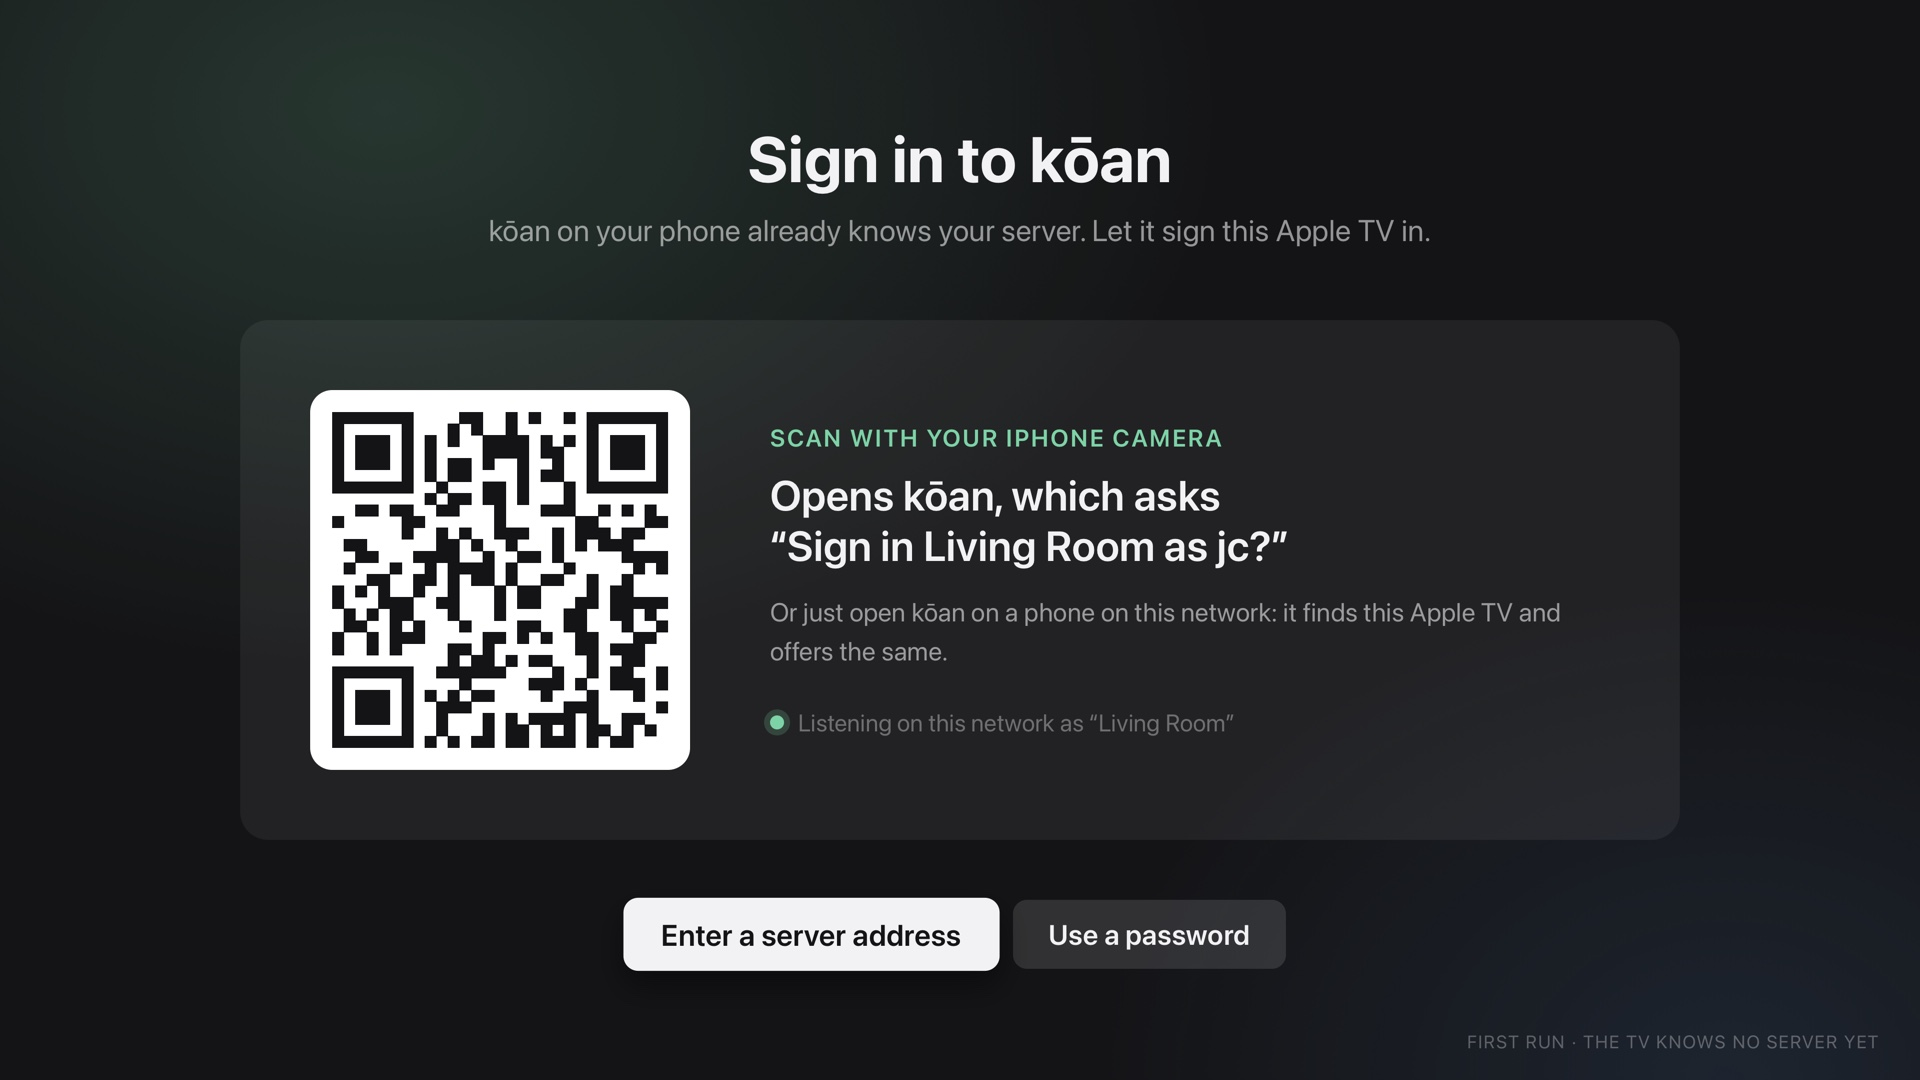
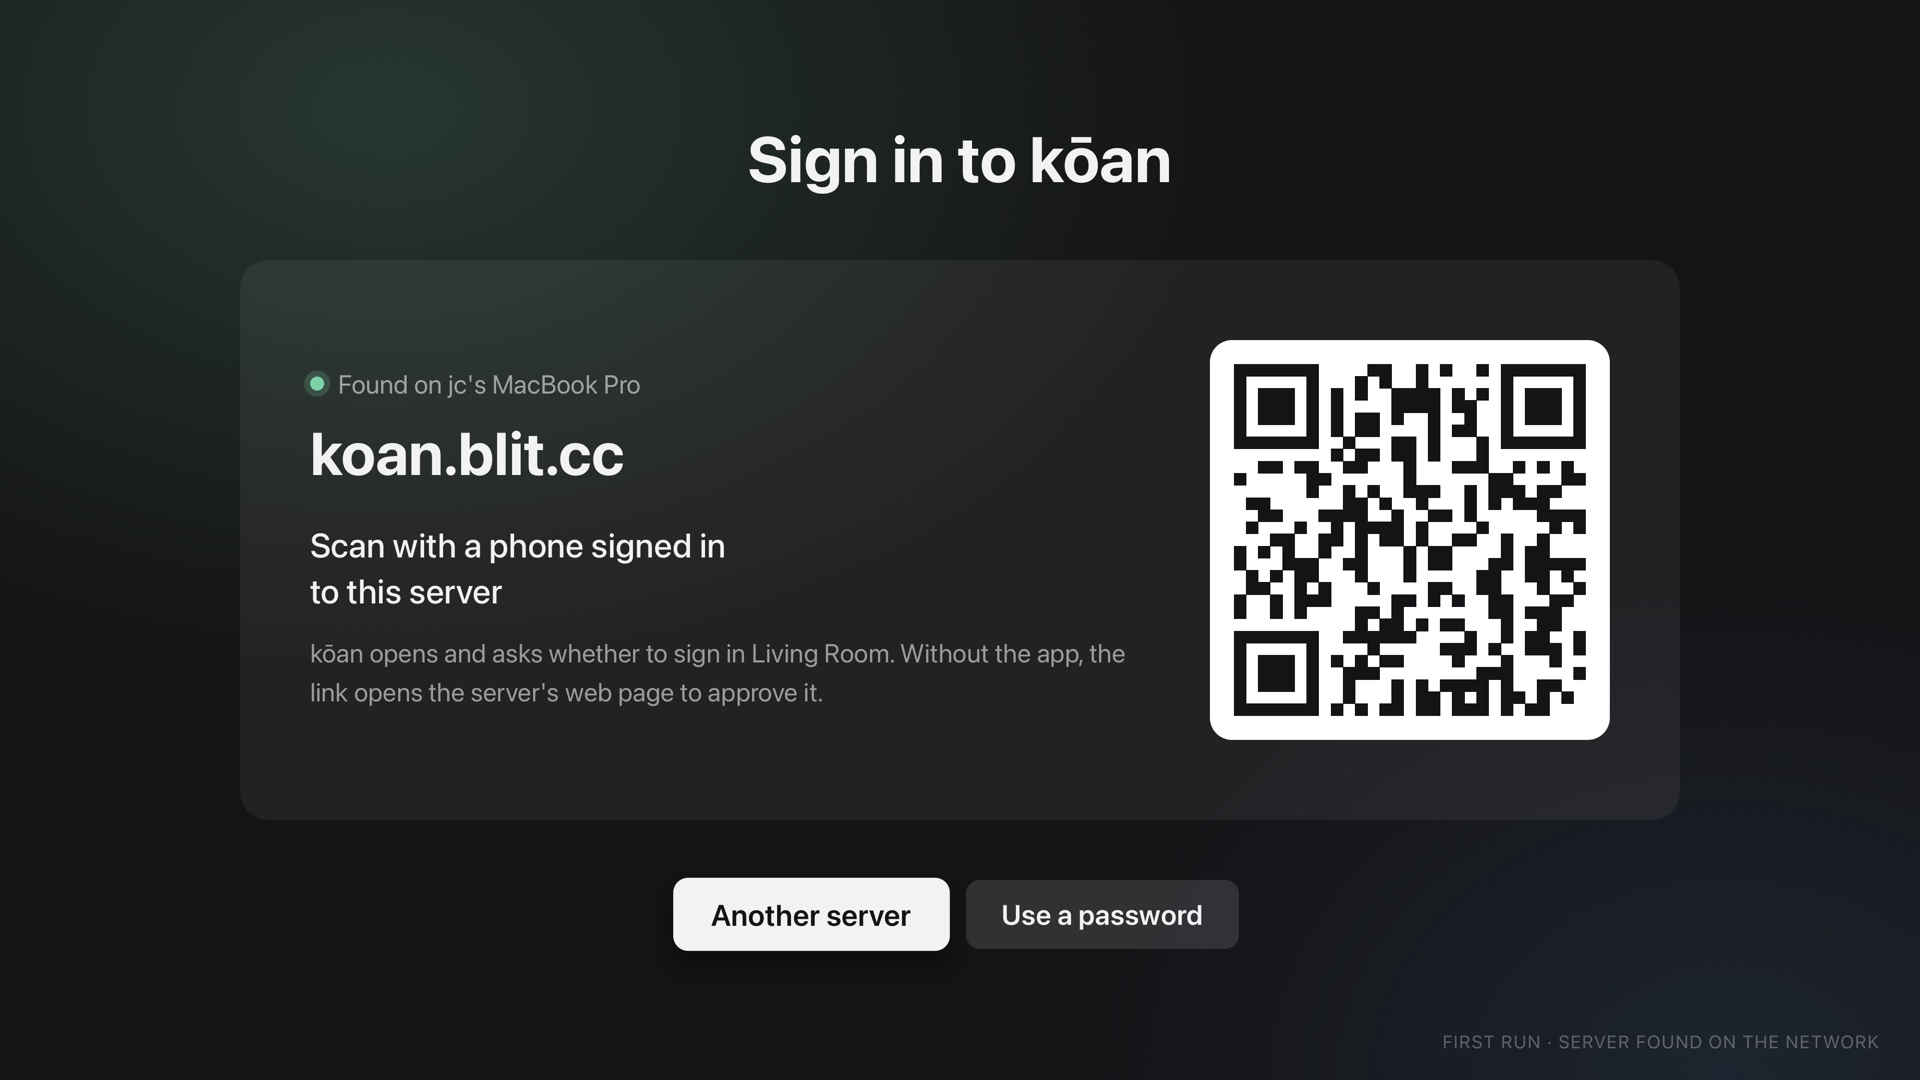
Redraw the tvOS sign-in mockup around server-mediated pairing
Claude-Session: https://claude.ai/code/session_0167eLGN45437pT7vbP2BjfD

diff --git a/docs/design/tvos/01-signin.html b/docs/design/tvos/01-signin.html
@@ -3,18 +3,17 @@
 <div class="content">
  <div style="position:absolute;top:120px;left:0;right:0;text-align:center">
   <div style="font-size:64px;font-weight:700">Sign in to kōan</div>
-  <div class="dim" style="font-size:30px;margin-top:16px">kōan on your phone already knows your server. Let it sign this Apple TV in.</div>
  </div>
- <div style="position:absolute;top:320px;left:240px;right:240px;height:520px;border-radius:28px;background:rgba(255,255,255,.06);padding:60px 70px;display:flex;gap:80px;align-items:center">
-  <div style="width:380px;height:380px;background:#fff;border-radius:22px;padding:22px;flex:none"><svg viewBox="0 0 29 29" width="336" height="336" shape-rendering="crispEdges"><g fill="#141416" id="q"></g></svg></div>
+ <div style="position:absolute;top:260px;left:240px;right:240px;height:560px;border-radius:28px;background:rgba(255,255,255,.06);padding:60px 70px;display:flex;gap:80px;align-items:center">
   <div style="flex:1">
-   <div class="mint" style="font-size:24px;font-weight:600;letter-spacing:.08em;text-transform:uppercase">Scan with your iPhone camera</div>
-   <div style="font-size:42px;font-weight:600;margin-top:18px;line-height:1.2">Opens kōan, which asks<br>“Sign in Living Room as jc?”</div>
-   <div class="dim" style="font-size:26px;margin-top:22px;line-height:1.5">Or just open kōan on a phone on this network: it finds this Apple TV and offers the same.</div>
-   <div style="margin-top:38px;font-size:24px;display:flex;align-items:center;gap:14px" class="dimmer"><span style="width:14px;height:14px;border-radius:7px;background:#7DD3A7;box-shadow:0 0 0 6px rgba(125,211,167,.2)"></span>Listening on this network as “Living Room”</div>
+   <div class="dim" style="font-size:26px;display:flex;align-items:center;gap:14px"><span style="width:14px;height:14px;border-radius:7px;background:#7DD3A7;box-shadow:0 0 0 6px rgba(125,211,167,.2)"></span>Found on jc's MacBook Pro</div>
+   <div style="font-size:60px;font-weight:700;margin-top:18px">koan.blit.cc</div>
+   <div style="font-size:34px;font-weight:500;margin-top:34px;line-height:1.35">Scan with a phone signed in<br>to this server</div>
+   <div class="dim" style="font-size:26px;margin-top:20px;line-height:1.5">kōan opens and asks whether to sign in Living Room. Without the app, the link opens the server's web page to approve it.</div>
   </div>
+  <div style="width:400px;height:400px;background:#fff;border-radius:22px;padding:24px;flex:none"><svg viewBox="0 0 29 29" width="352" height="352" shape-rendering="crispEdges"><g fill="#141416" id="q"></g></svg></div>
  </div>
- <div style="position:absolute;top:900px;left:0;right:0;display:flex;justify-content:center;gap:24px"><span class="btn f">Enter a server address</span><span class="btn">Use a password</span></div>
+ <div style="position:absolute;top:880px;left:0;right:0;display:flex;justify-content:center;gap:24px"><span class="btn f">Another server</span><span class="btn">Use a password</span></div>
 </div>
-<div class="label">First run · the TV knows no server yet</div>
+<div class="label">First run · server found on the network</div>
 <script>qr('q',7)</script></body></html>
